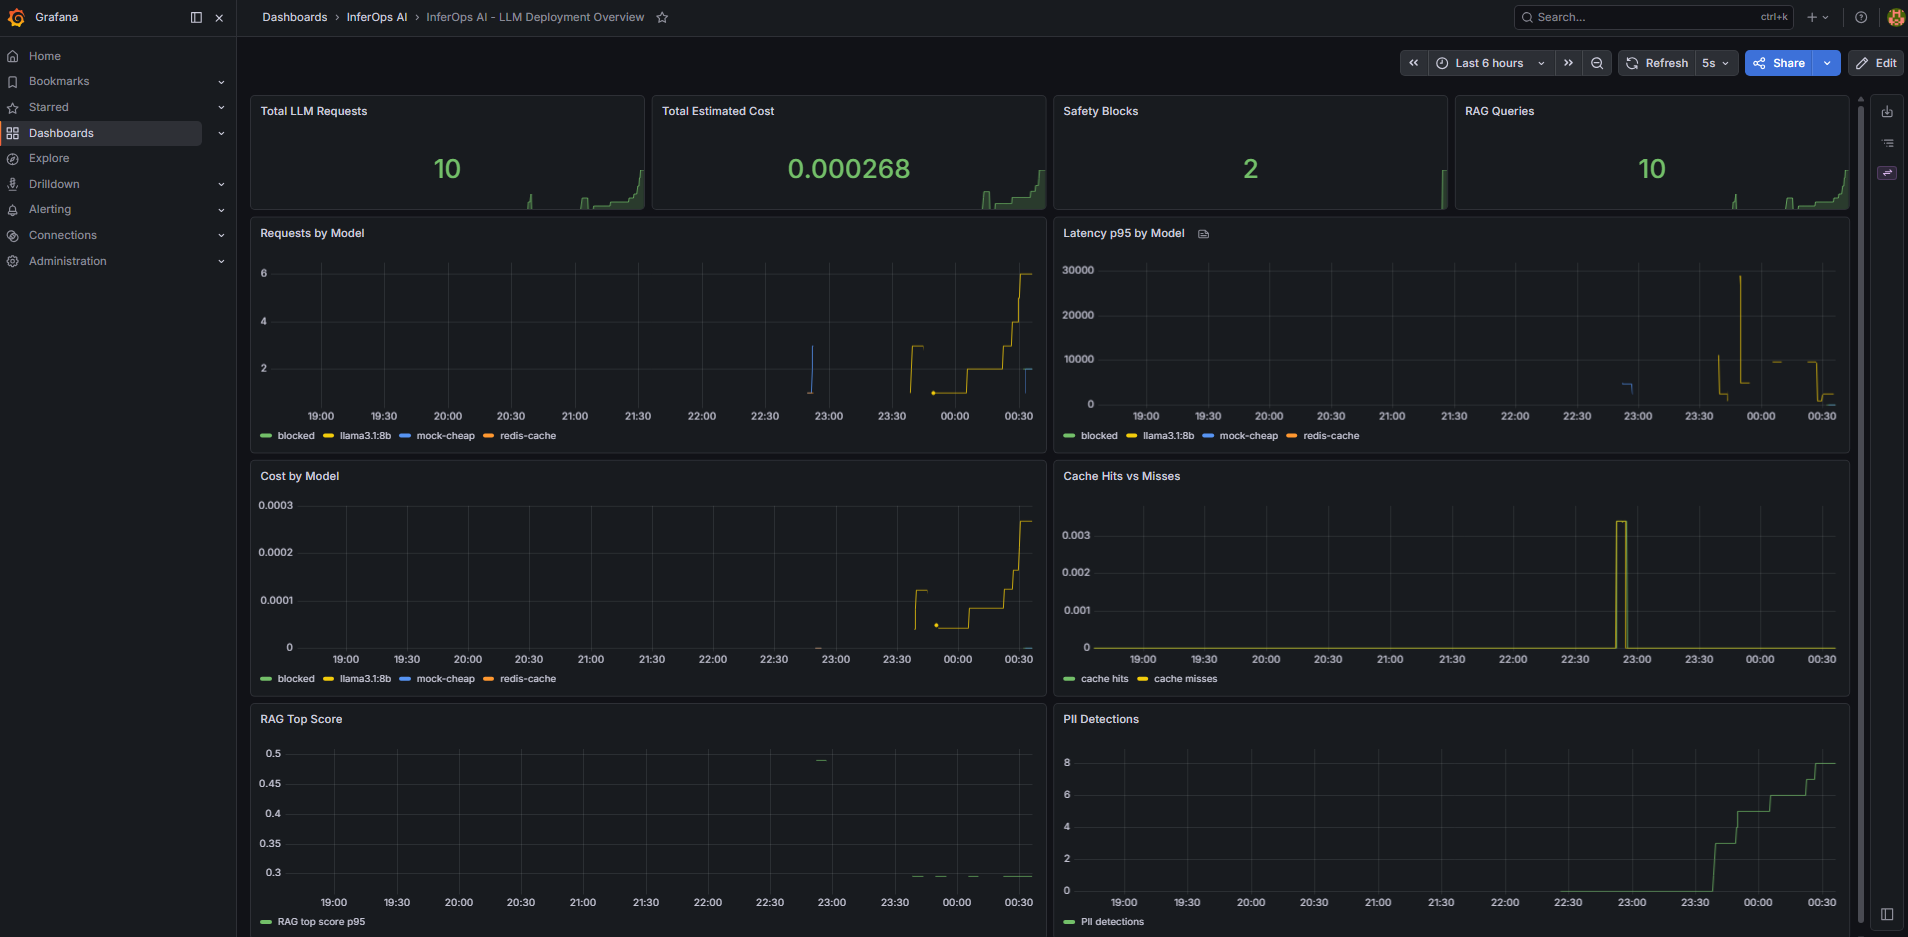
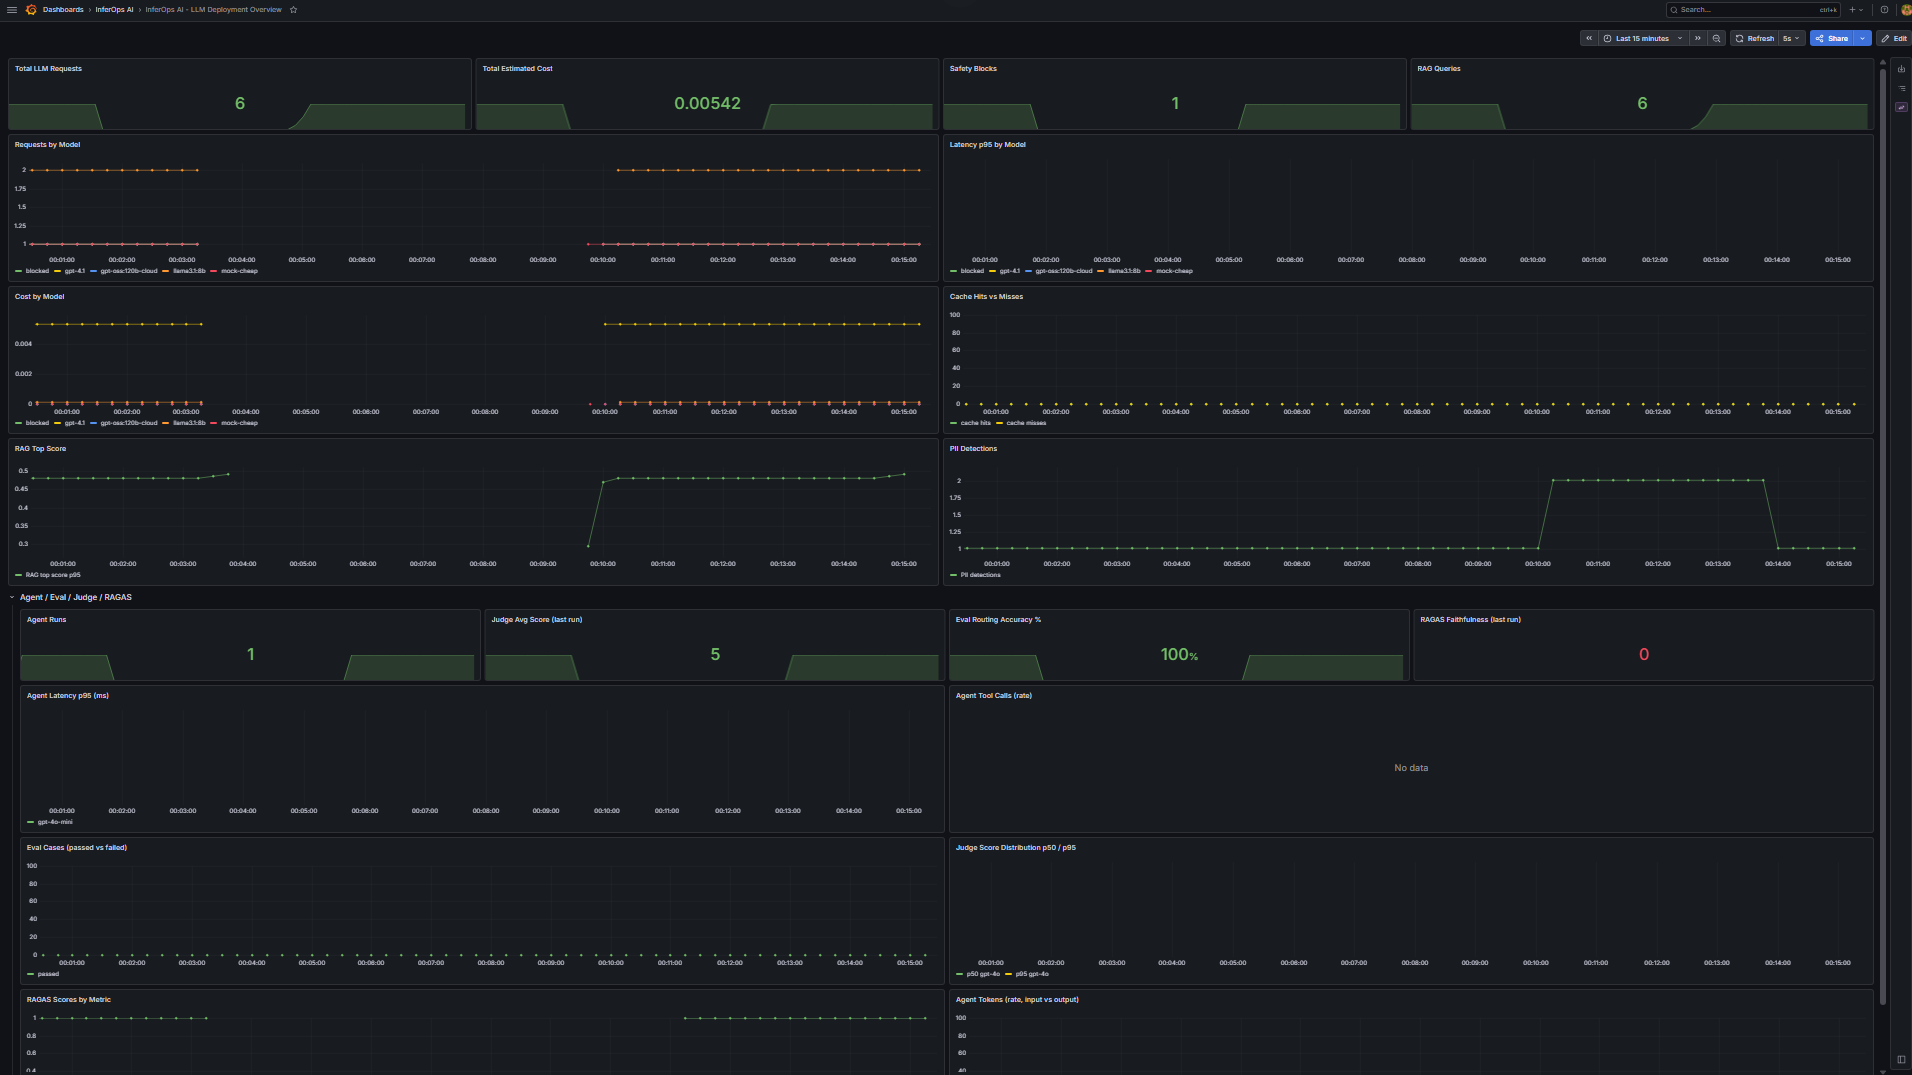
feat: Enhance observability with new metrics for agent, eval, judge, and RAGAS features; update Grafana dashboard

diff --git a/Test/regression.ts b/Test/regression.ts
@@ -1,5 +1,5 @@
 /**
- * InferOps AI full-stack regression suite.
+ * InferOps AI full-stack regression Test suite.
  *
  * Run from repo root:
  *   npx -y tsx Test/regression.ts

diff --git a/backend/app/api/routes_agent.py b/backend/app/api/routes_agent.py
@@ -10,6 +10,12 @@ from sqlalchemy.ext.asyncio import AsyncSession
 from app.agents.rag_agent import run_agent
 from app.db.models import RequestLog
 from app.db.session import get_db
+from app.observability.metrics import (
+    AGENT_RUNS_TOTAL,
+    AGENT_LATENCY_MS,
+    AGENT_TOOL_CALLS_TOTAL,
+    AGENT_TOKENS_TOTAL,
+)
 
 
 router = APIRouter(prefix="/v1/agent", tags=["agent"])
@@ -36,9 +42,17 @@ def _rag_chunk_count(steps: list[dict[str, Any]]) -> tuple[bool, int]:
 @router.post("/run")
 async def agent_run(req: AgentRunRequest, db: AsyncSession = Depends(get_db)):
     start = time.perf_counter()
-    result = await anyio.to_thread.run_sync(
-        lambda: run_agent(question=req.question, model=req.model)
-    )
+    status = "ok"
+    try:
+        result = await anyio.to_thread.run_sync(
+            lambda: run_agent(question=req.question, model=req.model)
+        )
+    except Exception:
+        status = "error"
+        latency_ms = int((time.perf_counter() - start) * 1000)
+        AGENT_RUNS_TOTAL.labels(model=req.model or "agent", status=status).inc()
+        AGENT_LATENCY_MS.labels(model=req.model or "agent").observe(latency_ms)
+        raise
     latency_ms = int((time.perf_counter() - start) * 1000)
 
     # Persist a RequestLog row so the run shows up in Logs / Dashboard / Budget.
@@ -99,6 +113,25 @@ async def agent_run(req: AgentRunRequest, db: AsyncSession = Depends(get_db)):
         await db.commit()
     except Exception:
         await db.rollback()
+
+    # Emit Prometheus metrics for the agent run.
+    try:
+        agent_model = (result.get("model") if isinstance(result, dict) else None) or (req.model or "agent")
+        AGENT_RUNS_TOTAL.labels(model=agent_model, status=status).inc()
+        AGENT_LATENCY_MS.labels(model=agent_model).observe(latency_ms)
+        if isinstance(result, dict):
+            in_tok = int(result.get("input_tokens") or 0)
+            out_tok = int(result.get("output_tokens") or 0)
+            if in_tok:
+                AGENT_TOKENS_TOTAL.labels(kind="input").inc(in_tok)
+            if out_tok:
+                AGENT_TOKENS_TOTAL.labels(kind="output").inc(out_tok)
+            for step in result.get("steps") or []:
+                tool = step.get("tool")
+                if tool:
+                    AGENT_TOOL_CALLS_TOTAL.labels(tool=str(tool)).inc()
+    except Exception:
+        pass
 
     if isinstance(result, dict):
         result.setdefault("latency_ms", latency_ms)

diff --git a/backend/app/api/routes_evals.py b/backend/app/api/routes_evals.py
@@ -4,6 +4,13 @@ import anyio
 
 from app.evals.judge import run_judge_eval
 from app.evals.ragas_eval import run_ragas_eval
+from app.observability.metrics import (
+    JUDGE_RUNS_TOTAL,
+    JUDGE_SCORE,
+    JUDGE_AVG_SCORE,
+    RAGAS_RUNS_TOTAL,
+    RAGAS_SCORE,
+)
 
 router = APIRouter(prefix="/v1/evals", tags=["evals"])
 
@@ -28,7 +35,21 @@ class RagasRequest(BaseModel):
 async def run_judge(req: JudgeRequest):
     """LLM-as-judge: GPT-4 scores every routing decision in the eval suite."""
     # Runs blocking HTTP calls; offload to a worker thread so the event loop stays free.
-    return await anyio.to_thread.run_sync(lambda: run_judge_eval(judge_model=req.judge_model))
+    result = await anyio.to_thread.run_sync(lambda: run_judge_eval(judge_model=req.judge_model))
+    try:
+        status = "ok" if result.get("ok") else "error"
+        JUDGE_RUNS_TOTAL.labels(judge_model=req.judge_model, status=status).inc()
+        if result.get("ok"):
+            for case in result.get("cases", []) or []:
+                score = (case.get("judge") or {}).get("score")
+                if isinstance(score, (int, float)) and score > 0:
+                    JUDGE_SCORE.labels(judge_model=req.judge_model).observe(float(score))
+            avg = result.get("average_judge_score")
+            if avg is not None:
+                JUDGE_AVG_SCORE.labels(judge_model=req.judge_model).set(float(avg))
+    except Exception:
+        pass
+    return result
 
 
 @router.post("/ragas")
@@ -37,9 +58,21 @@ async def run_ragas(req: RagasRequest):
     samples = [s.model_dump() for s in req.samples]
     # ragas.evaluate calls asyncio.run internally; running it inside uvloop fails.
     # Offload to a worker thread that has no running event loop.
-    return await anyio.to_thread.run_sync(
+    result = await anyio.to_thread.run_sync(
         lambda: run_ragas_eval(samples=samples, top_k=req.top_k)
     )
+    try:
+        status = "ok" if result.get("ok") else "error"
+        RAGAS_RUNS_TOTAL.labels(status=status).inc()
+        if result.get("ok"):
+            for metric, value in (result.get("scores") or {}).items():
+                try:
+                    RAGAS_SCORE.labels(metric=str(metric)).set(float(value))
+                except (TypeError, ValueError):
+                    continue
+    except Exception:
+        pass
+    return result
 
 
 @router.get("/summary")

diff --git a/backend/app/observability/metrics.py b/backend/app/observability/metrics.py
@@ -72,5 +72,82 @@ RAG_TOP_SCORE = Histogram(
 )
 
 
+# ---------------------------------------------------------------------------
+# Agent / Eval / Judge / RAGAS — observability for the advanced features
+# ---------------------------------------------------------------------------
+
+AGENT_RUNS_TOTAL = Counter(
+    "inferops_agent_runs_total",
+    "Total LangChain agent runs (POST /v1/agent/run)",
+    ["model", "status"],
+)
+
+AGENT_LATENCY_MS = Histogram(
+    "inferops_agent_latency_ms",
+    "Latency of LangChain agent runs in milliseconds",
+    ["model"],
+    buckets=[100, 250, 500, 1000, 2500, 5000, 10000, 20000, 30000, 60000],
+)
+
+AGENT_TOOL_CALLS_TOTAL = Counter(
+    "inferops_agent_tool_calls_total",
+    "Number of tool invocations made by the LangChain agent",
+    ["tool"],
+)
+
+AGENT_TOKENS_TOTAL = Counter(
+    "inferops_agent_tokens_total",
+    "Tokens consumed by the LangChain agent",
+    ["kind"],  # input | output
+)
+
+EVAL_RUNS_TOTAL = Counter(
+    "inferops_eval_runs_total",
+    "Deterministic eval suite executions (POST /v1/evals/run)",
+)
+
+EVAL_CASES_TOTAL = Counter(
+    "inferops_eval_cases_total",
+    "Eval cases executed, partitioned by pass/fail",
+    ["result"],  # passed | failed
+)
+
+EVAL_ROUTING_ACCURACY = Gauge(
+    "inferops_eval_routing_accuracy",
+    "Routing accuracy of the last deterministic eval run (percent 0-100)",
+)
+
+JUDGE_RUNS_TOTAL = Counter(
+    "inferops_judge_runs_total",
+    "LLM-as-judge eval executions (POST /v1/evals/judge)",
+    ["judge_model", "status"],
+)
+
+JUDGE_SCORE = Histogram(
+    "inferops_judge_score",
+    "Per-case LLM-as-judge score (1..5)",
+    ["judge_model"],
+    buckets=[1, 2, 3, 4, 5],
+)
+
+JUDGE_AVG_SCORE = Gauge(
+    "inferops_judge_avg_score",
+    "Average LLM-as-judge score of the last run",
+    ["judge_model"],
+)
+
+RAGAS_RUNS_TOTAL = Counter(
+    "inferops_ragas_runs_total",
+    "RAGAS eval executions (POST /v1/evals/ragas)",
+    ["status"],
+)
+
+RAGAS_SCORE = Gauge(
+    "inferops_ragas_score",
+    "Aggregate RAGAS metric scores (0..1) from the last run",
+    ["metric"],  # faithfulness | context_precision | ...
+)
+
+
 def metrics_response():
     return Response(generate_latest(), media_type=CONTENT_TYPE_LATEST)

diff --git a/backend/app/api/routes_dashboard.py b/backend/app/api/routes_dashboard.py
@@ -5,6 +5,11 @@ from app.db.session import get_db
 from app.db.models import RequestLog
 from app.db.models import Conversation, ConversationMessage
 from app.evals.eval_runner import run_eval_suite
+from app.observability.metrics import (
+    EVAL_RUNS_TOTAL,
+    EVAL_CASES_TOTAL,
+    EVAL_ROUTING_ACCURACY,
+)
 
 router = APIRouter(prefix="/v1", tags=["dashboard"])
 
@@ -304,4 +309,20 @@ async def evals_summary():
 
 @router.post("/evals/run")
 async def run_evals():
-    return run_eval_suite()
+    result = run_eval_suite()
+    try:
+        EVAL_RUNS_TOTAL.inc()
+        passed = int(result.get("passed_cases", 0))
+        total = int(result.get("total_cases", 0))
+        failed = max(total - passed, 0)
+        if passed:
+            EVAL_CASES_TOTAL.labels(result="passed").inc(passed)
+        if failed:
+            EVAL_CASES_TOTAL.labels(result="failed").inc(failed)
+        acc = result.get("routing_accuracy")
+        if acc is not None:
+            # eval_runner returns 0..1; expose as 0..100 percent
+            EVAL_ROUTING_ACCURACY.set(float(acc) * 100.0 if float(acc) <= 1.0 else float(acc))
+    except Exception:
+        pass
+    return result

diff --git a/README.md b/README.md
@@ -463,18 +463,38 @@ Invoke-RestMethod http://127.0.0.1:8000/v1/dashboard/summary
 
 ### Prometheus metrics
 
-- `inferops_requests_total{model,provider}`
-- `inferops_request_latency_ms_bucket{model}` (histogram)
-- `inferops_request_cost_usd_total{model}`
+Core request pipeline:
+
+- `inferops_requests_total{model,provider,status}`
+- `inferops_request_latency_ms_bucket{model,provider}` (histogram)
+- `inferops_request_cost_usd_total{model,provider}`
 - `inferops_cache_hits_total`, `inferops_cache_misses_total`
 - `inferops_rate_limit_blocks_total`
 - `inferops_safety_blocks_total`, `inferops_pii_detections_total`
-- `inferops_rag_queries_total`, `inferops_rag_hits_total`, `inferops_rag_top_score_bucket`
-- `inferops_budget_blocks_total`, `inferops_fallback_total`
+- `inferops_rag_queries_total{used}`, `inferops_rag_retrieved_chunks_bucket`, `inferops_rag_top_score_bucket`
+- `inferops_budget_remaining_usd{user_id}`, `inferops_fallback_total{from_provider,to_provider}`
+
+Advanced features (agent, deterministic eval, LLM judge, RAGAS):
+
+- `inferops_agent_runs_total{model,status}` — counter, agent runs
+- `inferops_agent_latency_ms_bucket{model}` — histogram, agent end-to-end latency
+- `inferops_agent_tool_calls_total{tool}` — counter, per-tool invocations (`rag_search`, `routing_decision`, `complexity_score`)
+- `inferops_agent_tokens_total{kind}` — counter, `input` vs `output` tokens
+- `inferops_eval_runs_total` — counter, deterministic eval suite runs
+- `inferops_eval_cases_total{result}` — counter, `passed` vs `failed`
+- `inferops_eval_routing_accuracy` — gauge, last routing accuracy (%)
+- `inferops_judge_runs_total{judge_model,status}` — counter, LLM-as-judge runs
+- `inferops_judge_score_bucket{judge_model}` — histogram, per-case judge score (1–5)
+- `inferops_judge_avg_score{judge_model}` — gauge, last run average
+- `inferops_ragas_runs_total{status}` — counter, RAGAS runs
+- `inferops_ragas_score{metric}` — gauge, last run aggregate (`faithfulness`, `context_precision`)
 
 ### Grafana
 
-Auto-provisioned dashboard `infra/grafana/dashboards/inferops-dashboard.json` shows requests, latency p95, cost, cache hit rate, RAG top-score, and PII detections by model.
+Auto-provisioned dashboard `infra/grafana/dashboards/inferops-dashboard.json` shows:
+
+- **Request pipeline row**: total requests, total cost, safety blocks, RAG queries, requests/latency p95/cost by model, cache hit rate, RAG top-score, PII detections.
+- **Agent / Eval / Judge / RAGAS row**: agent run count, judge avg score (colored 0–5), eval routing accuracy %, RAGAS faithfulness, agent latency p95, agent tool-call rate by tool, eval passed/failed timeline, judge score p50/p95 distribution, RAGAS scores by metric, agent token rate (input vs output).
 
 ---
 
